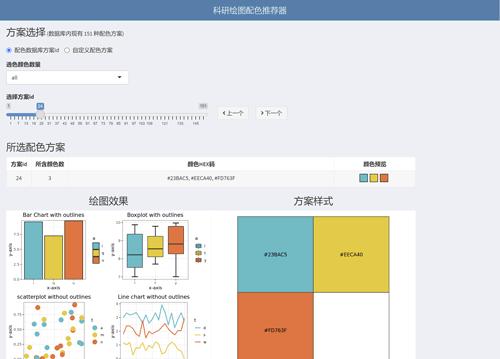
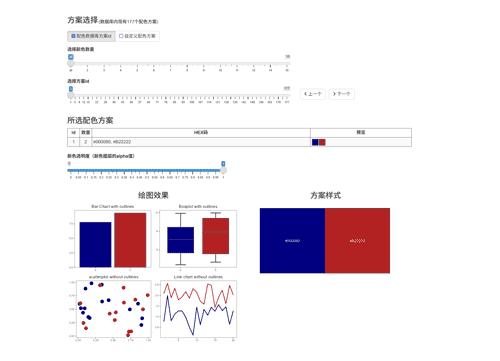
更新笔记

diff --git a/index.html b/index.html
@@ -77,6 +77,28 @@
         .app a:hover {
             text-decoration: none;
         }
+				#footer-container {
+		  text-align: center;
+		  font-size: 13px;
+		  color: #666666;
+		  line-height: 0.8;
+		  margin: 12px 0;
+		}
+		#footer-container a {
+		  color: #0066cc;
+		  text-decoration: none;
+		  margin: 0 2px;
+		}
+		.footer-links,
+		.footer-records {
+		  display: inline-flex;
+		  flex-wrap: wrap;
+		  justify-content: center;
+		  gap: 10px;
+		}
+		.footer-links i {
+		  margin-right: 4px;
+		}
     </style>
     <link rel="shortcut icon" href="https://lcpmgh.github.io/tempfiles/Rnote/aaapicture/pmgh.ico"/>
 	<link rel="stylesheet" href="https://cdnjs.cloudflare.com/ajax/libs/font-awesome/6.0.0-beta3/css/all.min.css">
@@ -219,21 +241,44 @@
         <!-- 继续添加更多category -->		
 	</div>  
 
-<footer style="background-color: #f4f4f4; color: #333; padding: 10px 0; text-align: center;font-size: 0.7em; border-top: 1px solid #ddd;">
-    <div>
-        <p style="margin: 0;display:inline">© 2021-2025, Lcpmgh, All rights reserved.</p>
-        <a target="_blank" href="https://github.com/lcpmgh" style="color: #06c; margin: 0 5px; text-decoration: none;">
-            <i class="fab fa-github"></i> Github
-        </a>
-        <a href="mailto:lcpmgh@gmail.com" style="color: #06c; margin: 0 5px; text-decoration: none;">
-            <i class="fas fa-envelope"></i> lcpmgh@gmail.com
-        </a>
-        <a href="http://lcpmgh.com" style="color: #06c; margin: 0 5px; text-decoration: none;">
-            <i class="fas fa-home"></i> lcpmgh.com
-        </a>
-        <a target="_blank" href="https://beian.miit.gov.cn" style="color: #06c; margin: 0 5px; text-decoration: none;">冀ICP备2022003075号</a>
-        <a target="_blank" href="http://www.beian.gov.cn/portal/registerSystemInfo?recordcode=51010702002736" style="color: #06c; margin: 0 5px; text-decoration: none;">川公网安备51010702002736</a>
+  <footer id="footer-container">
+    <p>
+      © <span id="copyright-year"></span>, Lcpmgh. All rights reserved.
+    </p>
+
+    <div class="footer-links">
+      <a href="https://github.com/lcpmgh" target="_blank">
+        <i class="fa-brands fa-github"></i> lcpmgh
+      </a>
+      <a href="mailto:lcpmgh@gmail.com">
+        <i class="fa-solid fa-envelope"></i> lcpmgh@gmail.com
+      </a>
+      <a href="http://lcpmgh.com/" target="_blank">
+        <i class="fa-solid fa-house"></i> lcpmgh.com
+      </a>
     </div>
-</footer>
+
+    <div class="footer-records">
+      <a href="https://beian.miit.gov.cn" target="_blank">
+        冀ICP备2022003075号
+      </a>
+      <a href="http://www.beian.gov.cn/portal/registerSystemInfo?recordcode=51010702002736" target="_blank">
+        川公网安备51010702002736
+      </a>
+    </div>
+  </footer>
+
+  <script>
+    (function () {
+      const startYear = 2021;
+      const currentYear = new Date().getFullYear();
+      const yearText =
+        currentYear > startYear
+          ? `${startYear}–${currentYear}`
+          : `${startYear}`;
+
+      document.getElementById("copyright-year").textContent = yearText;
+    })();
+  </script>
 </body>
 </html>
